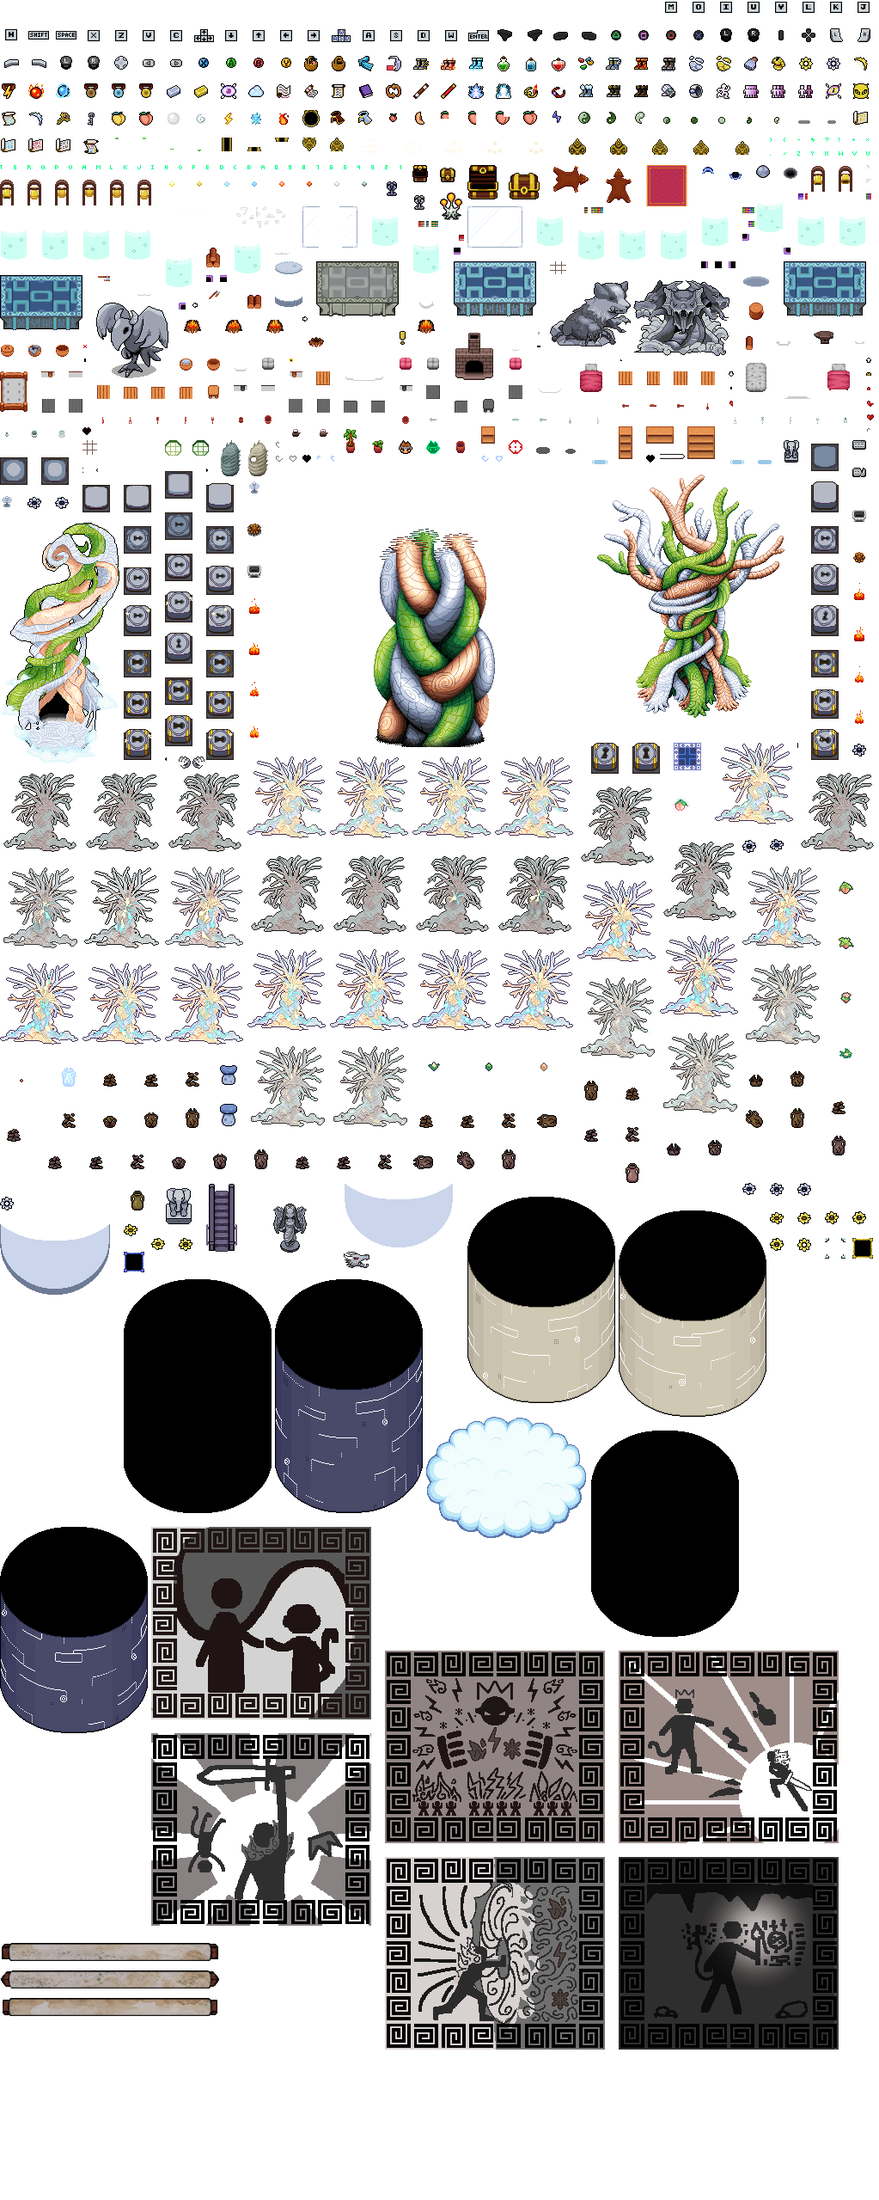
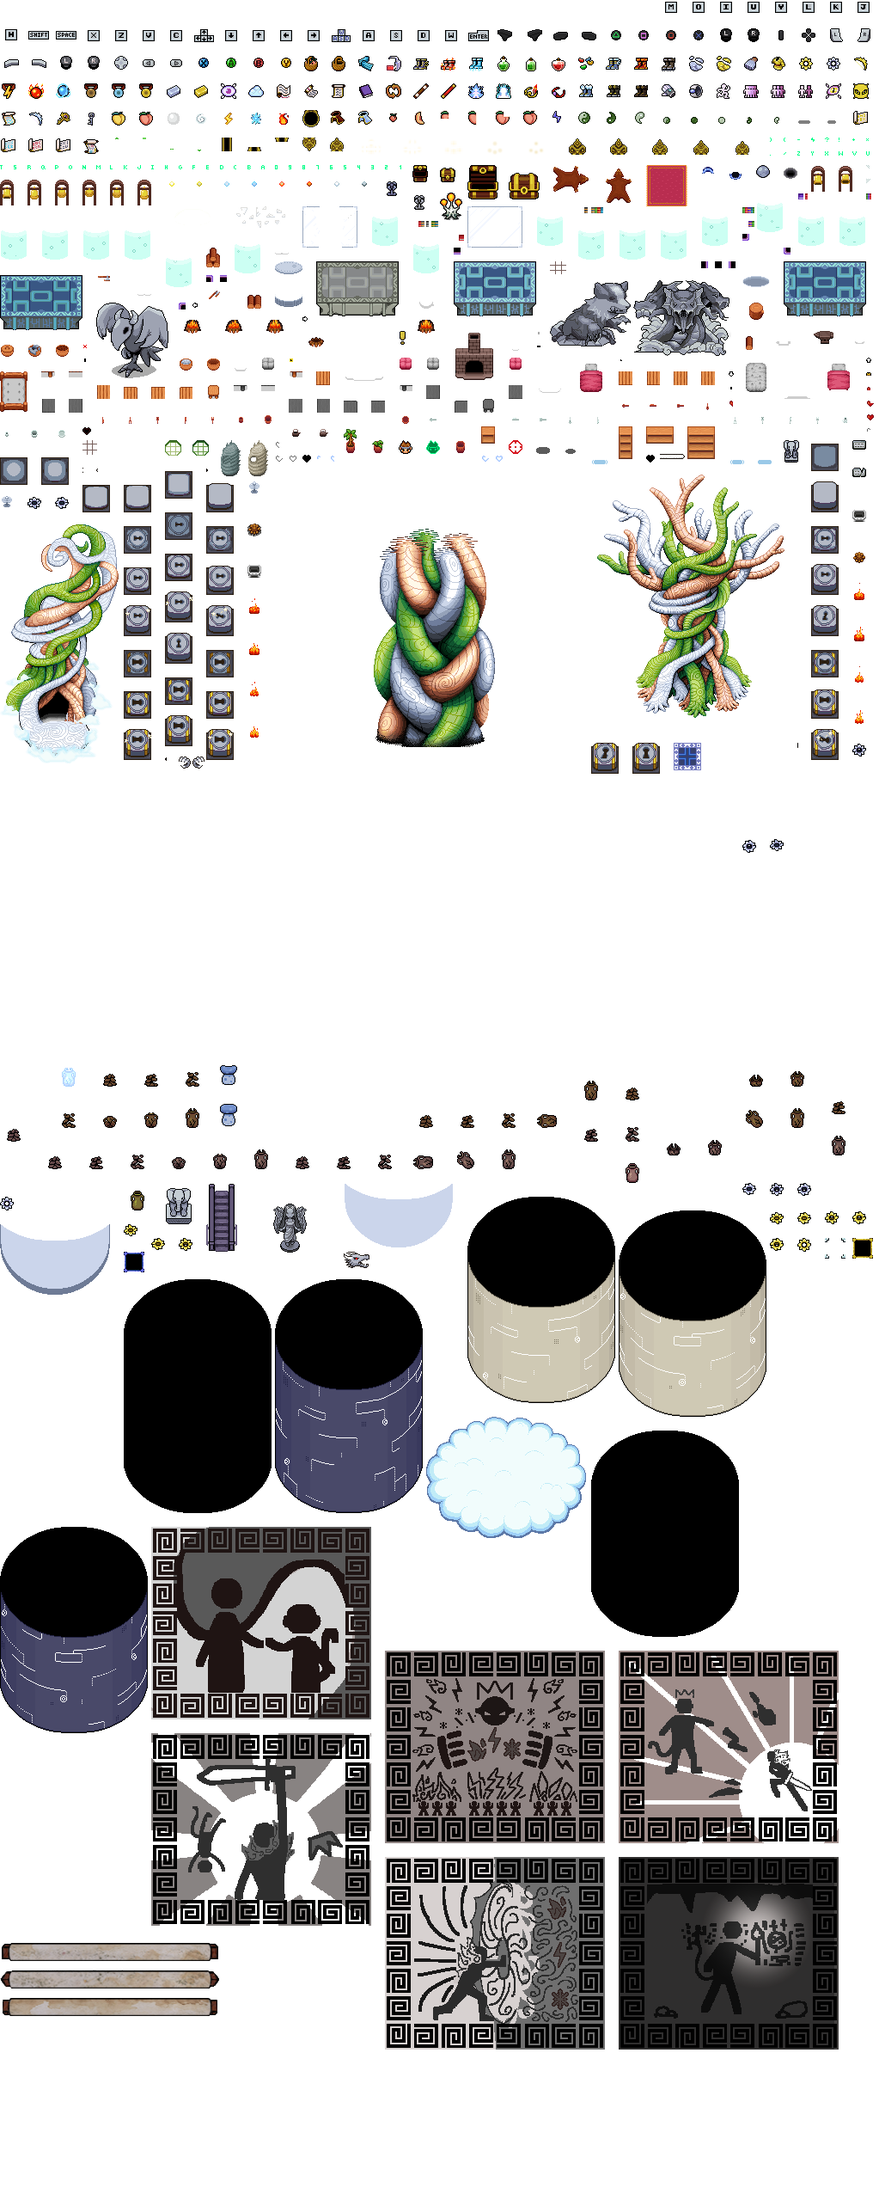
Fix various issues with the Jade tiles in the money maze game.

Changed region(s): [[0.0, 0.2161, 0.4545, 0.5248], [0.4848, 0.3396, 1.0, 0.5248]]

diff --git a/app/content/zones/holyCityInterior.ts b/app/content/zones/holyCityInterior.ts
@@ -452,7 +452,7 @@ const f0_1x1: AreaDefinition = {
                     [1930,1930,1930,1930,1930,1930,1930,1930,1930,1930,1930,1930,1930,1930,1930,1930,1930,1930,1930,2089,1930,1930,1930,1930,1930,1930,1930,1930,1930,2089,1930,1930],
                     [1930,1930,1930,1930,1930,1930,1930,1930,1930,1930,1930,1930,1930,1930,1930,1930,1930,1930,1930,1930,1930,1930,1930,1930,1930,1930,1930,1930,1930,1930,1930,1930],
                     [1930,1930,1930,1930,1930,1930,1930,1930,1930,1930,1930,1930,1930,1930,1930,1930,1930,1930,1930,1930,1930,1930,1930,1930,1930,1930,1930,1930,1930,1930,1930,1930],
-                    [1930,1930,1930,1930,1930,1930,1930,1930,1930,1930,1930,1930,1930,1930,1930,2089,2089,2089,1930,1930,1930,1930,1930,1930,1930,1930,1930,1930,1930,1930,1930,1930],
+                    [1930,1930,1930,1930,1930,1930,1930,1930,1930,1930,1930,1930,1930,1930,1930,1930,1930,1930,1930,1930,1930,1930,1930,1930,1930,1930,1930,1930,1930,1930,1930,1930],
                     [1930,1930,1930,1930,1930,1930,1930,1930,1930,1930,1930,1930,1930,1930,1930,1930,1930,1930,1930,1930,1930,1930,1930,1930,1930,1930,1930,1930,1930,1930,1930,1930],
                     [1930,1930,1930,1930,1930,1930,1930,1930,1930,1930,1930,1930,1930,1930,1930,1930,1930,1930,1930,1930,1930,1930,1930,1930,1930,1930,1930,1930,1930,1930,1930,1930],
                     [1930,1930,1930,1930,1930,1930,1930,1930,1930,1930,1930,1930,1930,1930,1930,1930,1930,1930,1930,1930,1930,1930,1930,1930,1930,1930,1930,1930,1930,1930,1930,1930],
@@ -520,49 +520,49 @@ const f0_1x1: AreaDefinition = {
                 w: 32,
                 h: 32,
                 tiles: [
-                    [2253,2242,2242,2242,2242,2242,2242,2242,2242,2242,2242,2242,2242,2242,2242,2242,2242,2242,2242,2242,2242,2242,2242,2242,2242,2242,2242,2242,2242,2242,2242,2252],
-                    [2241,0,0,0,0,0,0,0,0,0,0,0,0,0,0,0,0,0,0,0,0,0,0,0,0,0,0,0,0,0,0,2241],
-                    [2241,0,0,0,0,0,0,0,0,0,0,0,0,0,0,0,0,0,0,0,0,0,0,0,0,0,0,0,0,0,0,2241],
-                    [2241,0,0,0,0,0,0,0,0,0,0,0,0,0,0,0,0,0,0,0,0,0,0,0,0,0,0,0,0,0,0,2241],
-                    [2241,0,0,0,0,0,0,0,0,0,0,0,0,0,0,0,0,0,0,0,0,0,0,0,0,0,0,0,0,0,0,2241],
-                    [2241,0,0,0,0,0,0,0,0,0,0,0,0,0,0,0,0,0,0,0,0,0,0,0,0,0,0,0,0,0,0,2241],
-                    [2241,0,0,0,0,0,0,0,0,0,0,0,0,0,0,0,0,0,0,0,0,0,0,0,0,0,0,0,0,0,0,2241],
-                    [2241,0,0,0,0,0,0,0,0,0,0,0,0,0,0,0,0,0,0,0,0,0,0,0,0,0,0,0,0,0,0,2241],
-                    [2241,0,0,0,0,0,0,0,0,0,0,0,0,0,0,0,0,0,0,0,0,0,0,0,0,0,0,0,0,0,0,2241],
-                    [2241,0,0,0,0,0,0,0,0,0,0,0,0,0,0,0,0,0,0,0,0,0,0,0,0,0,0,0,0,0,0,2241],
-                    [2241,0,0,0,0,0,0,0,0,0,0,0,0,0,0,0,0,0,0,0,0,0,0,0,0,0,0,0,0,0,0,2241],
-                    [2241,0,0,0,0,0,0,0,0,0,0,0,0,0,0,0,0,0,0,0,0,0,0,0,0,0,0,0,0,0,0,2241],
-                    [2241,0,0,0,0,0,0,0,0,0,0,0,0,0,0,0,0,0,0,0,0,0,0,0,0,0,0,0,0,0,0,2241],
-                    [2241,0,0,0,0,0,0,0,0,0,0,0,0,0,0,0,0,0,0,0,0,0,0,0,0,0,0,0,0,0,0,2241],
-                    [2241,0,0,0,0,0,0,0,0,0,0,0,0,0,0,0,0,0,0,0,0,0,0,0,0,0,0,0,0,0,0,2241],
-                    [2247,2242,2242,2242,2242,2242,2242,2242,2242,2242,2242,2242,2242,2242,2242,2242,2242,2242,2242,2242,2242,2242,2242,2242,0,0,2242,2242,2242,2242,2242,2246],
-                    [2253,2242,2242,2242,2242,2242,2242,2242,2242,2242,2242,2242,2242,2242,2242,2252,28,2253,2242,2242,2242,2242,2242,2242,2242,2242,2242,2242,2242,2242,2242,2252],
-                    [2241,0,0,0,0,0,0,0,0,0,0,0,0,0,0,2241,28,2241,0,0,0,0,0,0,0,0,0,0,0,0,0,2241],
-                    [2241,0,0,0,0,0,0,0,0,0,0,0,0,0,0,2241,28,2241,0,0,0,0,0,0,0,0,0,0,0,0,0,2241],
-                    [2241,0,0,0,0,0,0,0,0,0,0,0,0,0,0,2241,28,2241,0,0,0,0,0,0,0,0,0,0,0,0,0,2241],
-                    [2241,0,0,0,0,0,0,0,0,0,0,0,0,0,0,2241,28,2241,0,0,0,0,0,0,0,0,0,0,0,0,0,2241],
-                    [2241,0,0,0,0,0,0,0,0,0,0,0,0,0,0,2241,28,2241,0,0,0,0,0,0,0,0,0,0,0,0,0,2241],
-                    [2241,0,0,0,0,0,0,0,0,0,0,0,0,0,0,2241,28,2241,0,0,0,0,0,0,0,0,0,0,0,0,0,2241],
-                    [2241,0,0,0,0,0,0,0,0,0,0,0,0,0,0,0,28,0,0,0,0,0,0,0,0,0,0,0,0,0,0,2241],
-                    [2241,0,0,0,0,0,0,0,0,0,0,0,0,0,0,0,28,0,0,0,0,0,0,0,0,0,0,0,0,0,0,2241],
-                    [2241,0,0,0,0,0,0,0,0,0,0,0,0,0,0,0,28,0,0,0,0,0,0,0,0,0,0,0,0,0,0,2241],
-                    [2241,0,0,0,0,0,0,0,0,0,0,0,0,0,0,2241,28,2241,0,0,0,0,0,0,0,0,0,0,0,0,0,2241],
-                    [2241,0,0,0,0,0,0,0,0,0,0,0,0,0,0,2241,28,2241,0,0,0,0,0,0,0,0,0,0,0,0,0,2241],
-                    [2241,0,0,0,0,0,0,0,0,0,0,0,0,0,0,2241,28,2241,0,0,0,0,0,0,0,0,0,0,0,0,0,2241],
-                    [2241,0,0,0,0,0,0,0,0,0,0,0,0,0,0,2241,28,2241,0,0,0,0,0,0,0,0,0,0,0,0,0,2241],
-                    [2241,0,0,0,0,0,0,0,0,0,0,0,0,0,0,2241,28,2241,0,0,0,0,0,0,0,0,0,0,0,0,0,2241],
-                    [2247,2242,2242,2242,2242,2242,2242,0,0,2242,2242,2242,2242,2242,2242,2246,28,2247,2242,2242,2242,2242,2242,2242,2242,2242,2242,2242,2242,2242,2242,2246],
+                    [2310,2299,2299,2299,2299,2299,2299,2299,2299,2299,2299,2299,2299,2299,2299,2299,2299,2299,2299,2299,2299,2299,2299,2299,2299,2299,2299,2299,2299,2299,2299,2309],
+                    [2298,0,0,0,0,0,0,0,0,0,0,0,0,0,0,0,0,0,0,0,0,0,0,0,0,0,0,0,0,0,0,2298],
+                    [2298,0,0,0,0,0,0,0,0,0,0,0,0,0,0,0,0,0,0,0,0,0,0,0,0,0,0,0,0,0,0,2298],
+                    [2298,0,0,0,0,0,0,0,0,0,0,0,0,0,0,0,0,0,0,0,0,0,0,0,0,0,0,0,0,0,0,2298],
+                    [2298,0,0,0,0,0,0,0,0,0,0,0,0,0,0,0,0,0,0,0,0,0,0,0,0,0,0,0,0,0,0,2298],
+                    [2298,0,0,0,0,0,0,0,0,0,0,0,0,0,0,0,0,0,0,0,0,0,0,0,0,0,0,0,0,0,0,2298],
+                    [2298,0,0,0,0,0,0,0,0,0,0,0,0,0,0,0,0,0,0,0,0,0,0,0,0,0,0,0,0,0,0,2298],
+                    [2298,0,0,0,0,0,0,0,0,0,0,0,0,0,0,0,0,0,0,0,0,0,0,0,0,0,0,0,0,0,0,2298],
+                    [2298,0,0,0,0,0,0,0,0,0,0,0,0,0,0,0,0,0,0,0,0,0,0,0,0,0,0,0,0,0,0,2298],
+                    [2298,0,0,0,0,0,0,0,0,0,0,0,0,0,0,0,0,0,0,0,0,0,0,0,0,0,0,0,0,0,0,2298],
+                    [2298,0,0,0,0,0,0,0,0,0,0,0,0,0,0,0,0,0,0,0,0,0,0,0,0,0,0,0,0,0,0,2298],
+                    [2298,0,0,0,0,0,0,0,0,0,0,0,0,0,0,0,0,0,0,0,0,0,0,0,0,0,0,0,0,0,0,2298],
+                    [2298,0,0,0,0,0,0,0,0,0,0,0,0,0,0,0,0,0,0,0,0,0,0,0,0,0,0,0,0,0,0,2298],
+                    [2298,0,0,0,0,0,0,0,0,0,0,0,0,0,0,0,0,0,0,0,0,0,0,0,0,0,0,0,0,0,0,2298],
+                    [2298,0,0,0,0,0,0,0,0,0,0,0,0,0,0,0,0,0,0,0,0,0,0,0,0,0,0,0,0,0,0,2298],
+                    [2304,2299,2299,2299,2299,2299,2299,2299,2299,2299,2299,2299,2299,2299,2299,2299,2299,2299,2299,2299,2299,2299,2299,2242,0,0,2242,2299,2299,2299,2299,2303],
+                    [2310,2299,2299,2299,2299,2299,2299,2299,2299,2299,2299,2299,2299,2299,2299,2309,28,2310,2299,2299,2299,2299,2299,2299,2299,2299,2299,2299,2299,2299,2299,2309],
+                    [2298,0,0,0,0,0,0,0,0,0,0,0,0,0,0,2298,28,2298,0,0,0,0,0,0,0,0,0,0,0,0,0,2298],
+                    [2298,0,0,0,0,0,0,0,0,0,0,0,0,0,0,2298,28,2298,0,0,0,0,0,0,0,0,0,0,0,0,0,2298],
+                    [2298,0,0,0,0,0,0,0,0,0,0,0,0,0,0,2298,28,2298,0,0,0,0,0,0,0,0,0,0,0,0,0,2298],
+                    [2298,0,0,0,0,0,0,0,0,0,0,0,0,0,0,2298,28,2298,0,0,0,0,0,0,0,0,0,0,0,0,0,2298],
+                    [2298,0,0,0,0,0,0,0,0,0,0,0,0,0,0,2298,28,2298,0,0,0,0,0,0,0,0,0,0,0,0,0,2298],
+                    [2298,0,0,0,0,0,0,0,0,0,0,0,0,0,0,2298,28,2298,0,0,0,0,0,0,0,0,0,0,0,0,0,2298],
+                    [2298,0,0,0,0,0,0,0,0,0,0,0,0,0,0,0,28,0,0,0,0,0,0,0,0,0,0,0,0,0,0,2298],
+                    [2298,0,0,0,0,0,0,0,0,0,0,0,0,0,0,0,28,0,0,0,0,0,0,0,0,0,0,0,0,0,0,2298],
+                    [2298,0,0,0,0,0,0,0,0,0,0,0,0,0,0,0,28,0,0,0,0,0,0,0,0,0,0,0,0,0,0,2298],
+                    [2298,0,0,0,0,0,0,0,0,0,0,0,0,0,0,2298,28,2298,0,0,0,0,0,0,0,0,0,0,0,0,0,2298],
+                    [2298,0,0,0,0,0,0,0,0,0,0,0,0,0,0,2298,28,2298,0,0,0,0,0,0,0,0,0,0,0,0,0,2298],
+                    [2298,0,0,0,0,0,0,0,0,0,0,0,0,0,0,2298,28,2298,0,0,0,0,0,0,0,0,0,0,0,0,0,2298],
+                    [2298,0,0,0,0,0,0,0,0,0,0,0,0,0,0,2298,28,2298,0,0,0,0,0,0,0,0,0,0,0,0,0,2298],
+                    [2298,0,0,0,0,0,0,0,0,0,0,0,0,0,0,2298,28,2298,0,0,0,0,0,0,0,0,0,0,0,0,0,2298],
+                    [2304,2299,2299,2299,2299,2299,2242,0,0,2242,2299,2299,2299,2299,2299,2303,28,2304,2299,2299,2299,2299,2299,2299,2299,2299,2299,2299,2299,2299,2299,2303],
                 ],
             },
         },
     ],
     objects: [
-        {status: "normal", id: "moneyMazeEntrance", x: 96, y: 496, type: "door", style: "jadeLightInterior", d: "down", targetZone: "overworld", targetObjectId: "moneyMazeEntrance", linked: true},
-        {status: "closed", id: "", x: 368, y: 240, type: "door", style: "jadeLightInterior", d: "down"},
-        {status: "closed", id: "", x: 272, y: 368, type: "door", style: "jadeLightInterior", d: "left", linked: true},
-        {status: "normal", id: "", x: 240, y: 368, type: "door", style: "jadeLightInterior", d: "right", linked: true},
-        {status: "normal", id: "moneyMazeExit", x: 432, y: 272, type: "door", style: "jadeDarkInterior", d: "up", targetZone: "overworld", targetObjectId: "moneyMazeExit", linked: true},
-        {status: "normal", id: "moneyMazeExit", x: 48, y: 16, type: "door", style: "jadeLightInteriorUpstairs", d: "up", targetZone: "overworld", targetObjectId: "moneyMazeExit"},
+        {status: "normal", id: "moneyMazeEntrance", x: 96, y: 496, type: "door", style: "jadeDarkInterior", d: "down", targetZone: "overworld", targetObjectId: "moneyMazeEntrance", linked: true},
+        {status: "closed", id: "", x: 368, y: 240, type: "door", style: "jadeDarkInterior", d: "down"},
+        {status: "closed", id: "", x: 272, y: 368, type: "door", style: "jadeDarkInterior", d: "left", linked: true},
+        {status: "normal", id: "", x: 240, y: 368, type: "door", style: "jadeDarkInterior", d: "right", linked: true},
+        {status: "normal", id: "moneyMazeExit", x: 432, y: 272, type: "door", style: "jadeDarkInteriorUpstairs", d: "up", targetZone: "overworld", targetObjectId: "moneyMazeExit", linked: true},
+        {status: "normal", id: "moneyMazeExit", x: 48, y: 16, type: "door", style: "jadeDarkInteriorUpstairs", d: "up", targetZone: "overworld", targetObjectId: "moneyMazeExit"},
         {status: "normal", id: "", x: 16, y: 280, type: "turret", style: "arrow", d: "down", fireInterval: 2000, fireOffset: 0},
         {status: "normal", id: "", x: 48, y: 280, type: "turret", style: "arrow", d: "down", fireInterval: 2000, fireOffset: 1000},
         {status: "normal", id: "", x: 64, y: 280, type: "turret", style: "arrow", d: "down", fireInterval: 2000, fireOffset: 0},
@@ -1157,31 +1157,31 @@ const sf0_1x1: AreaDefinition = {
                     [0,0,0,0,0,0,0,0,0,0,0,0,0,0,0,0,0,0,0,0,0,0,0,0,0,0,0,0,0,0,0,0],
                     [0,0,0,0,0,0,0,0,0,0,0,0,0,0,0,0,0,0,0,0,0,0,0,0,0,0,0,0,0,0,0,0],
                     [0,0,0,0,0,0,0,0,0,0,0,0,0,0,0,0,0,0,0,0,0,0,0,0,0,0,0,0,0,0,0,0],
-                    [0,0,0,0,0,0,0,0,0,0,0,0,0,0,0,0,0,0,0,0,0,0,0,2299,2299,2299,2299,0,0,0,0,0],
+                    [0,0,0,0,0,0,0,0,0,0,0,0,0,0,0,0,0,0,0,0,0,0,0,2242,2242,2242,2242,0,0,0,0,0],
                     [0,0,0,0,0,0,0,0,0,0,0,0,0,0,0,0,0,0,0,0,0,0,0,0,0,0,0,0,0,0,0,0],
                     [0,0,0,0,0,0,0,0,0,0,0,0,0,0,0,0,0,0,0,0,0,0,0,0,0,0,0,0,0,0,0,0],
                     [0,0,0,0,0,0,0,0,0,0,0,0,0,0,0,0,0,0,0,0,0,0,0,0,0,0,0,0,0,0,0,0],
                     [0,0,0,0,0,0,0,0,0,0,0,0,0,0,0,0,0,0,0,0,0,0,0,0,0,0,0,0,0,0,0,0],
                     [0,0,0,0,0,0,0,0,0,0,0,0,0,0,0,0,0,0,0,0,0,0,0,0,0,0,0,0,0,0,0,0],
-                    [0,0,0,0,0,0,0,0,0,0,0,0,0,0,0,0,0,0,0,0,2310,2299,2299,2299,2299,2299,2299,2299,2299,2299,2299,2303],
-                    [0,0,0,0,2310,2299,2299,2299,2299,2299,2309,0,0,0,0,0,0,0,0,0,2298,28,28,28,28,28,28,28,28,28,28,28],
-                    [0,0,0,0,2298,28,28,28,28,28,2298,0,0,0,0,0,0,0,0,0,2298,28,28,28,28,28,28,28,28,28,28,28],
-                    [0,0,0,0,2298,28,28,28,28,28,2298,0,0,0,0,0,0,0,0,0,2298,28,28,28,28,28,28,28,28,28,28,28],
-                    [0,0,0,0,2304,2299,2299,2299,2299,2299,2307,0,0,0,0,0,0,0,0,0,2304,2299,2299,2299,2299,2299,2299,2299,2299,2299,2299,2309],
-                    [0,0,0,0,0,0,0,0,0,0,2300,2299,2299,2299,2299,2307,0,0,0,0,0,0,0,0,0,0,0,0,0,0,0,0],
-                    [0,0,0,0,0,0,0,0,0,0,2298,28,28,28,28,0,0,0,0,0,0,0,0,0,0,0,0,0,0,0,0,0],
-                    [0,0,0,0,0,0,0,0,0,0,2298,28,28,28,28,0,0,0,0,0,0,0,0,0,0,0,0,0,0,0,0,0],
-                    [0,0,0,0,0,0,0,0,0,0,2298,28,28,28,28,0,0,0,0,0,0,0,0,0,0,0,0,0,0,0,0,0],
-                    [0,0,0,0,0,0,0,0,0,0,2298,28,28,28,28,0,0,0,0,0,0,0,0,0,0,0,0,0,0,0,0,0],
-                    [0,0,0,0,0,0,0,0,0,0,2302,0,0,0,0,0,0,0,0,0,0,0,0,0,0,0,0,0,0,0,0,0],
+                    [0,0,0,0,0,0,0,0,0,0,0,0,0,0,0,0,0,0,0,0,2253,2242,2242,2242,2242,2242,2242,2242,2242,2242,2242,2246],
+                    [0,0,0,0,2253,2242,2242,2242,2242,2242,2252,0,0,0,0,0,0,0,0,0,2241,28,28,28,28,28,28,28,28,28,28,28],
+                    [0,0,0,0,2241,28,28,28,28,28,2241,0,0,0,0,0,0,0,0,0,2241,28,28,28,28,28,28,28,28,28,28,28],
+                    [0,0,0,0,2241,28,28,28,28,28,2241,0,0,0,0,0,0,0,0,0,2241,28,28,28,28,28,28,28,28,28,28,28],
+                    [0,0,0,0,2247,2242,2242,2242,2242,2242,2250,0,0,0,0,0,0,0,0,0,2247,2242,2242,2242,2242,2242,2242,2242,2242,2242,2242,2252],
+                    [0,0,0,0,0,0,0,0,0,0,2243,2242,2242,2242,2242,2250,0,0,0,0,0,0,0,0,0,0,0,0,0,0,0,0],
+                    [0,0,0,0,0,0,0,0,0,0,2241,28,28,28,28,0,0,0,0,0,0,0,0,0,0,0,0,0,0,0,0,0],
+                    [0,0,0,0,0,0,0,0,0,0,2241,28,28,28,28,0,0,0,0,0,0,0,0,0,0,0,0,0,0,0,0,0],
+                    [0,0,0,0,0,0,0,0,0,0,2241,28,28,28,28,0,0,0,0,0,0,0,0,0,0,0,0,0,0,0,0,0],
+                    [0,0,0,0,0,0,0,0,0,0,2241,28,28,28,28,0,0,0,0,0,0,0,0,0,0,0,0,0,0,0,0,0],
+                    [0,0,0,0,0,0,0,0,0,0,2245,0,0,0,0,0,0,0,0,0,0,0,0,0,0,0,0,0,0,0,0,0],
                 ],
             },
         },
     ],
     objects: [
-        {status: "normal", id: "jadeCityWestDoor", x: 96, y: 496, type: "door", style: "jadeDarkInterior", d: "down", targetZone: "overworld", targetObjectId: "jadeCityWestDoor", linked: true, spirit: true},
-        {status: "closedSwitch", id: "jadeCityMazeDoor", x: 240, y: 368, type: "door", style: "jadeDarkInterior", d: "right", linked: true, spirit: true},
-        {status: "closed", id: "", x: 272, y: 368, type: "door", style: "jadeDarkInterior", d: "left", linked: true, spirit: true},
+        {status: "normal", id: "jadeCityWestDoor", x: 96, y: 496, type: "door", style: "jadeLightInterior", d: "down", targetZone: "overworld", targetObjectId: "jadeCityWestDoor", linked: true, spirit: true},
+        {status: "closedSwitch", id: "jadeCityMazeDoor", x: 240, y: 368, type: "door", style: "jadeLightInterior", d: "right", linked: true, spirit: true},
+        {status: "closed", id: "", x: 272, y: 368, type: "door", style: "jadeLightInterior", d: "left", linked: true, spirit: true},
         {status: "normal", id: "jadeCityMazeExit", x: 432, y: 272, type: "door", style: "jadeLightInteriorUpstairs", d: "up", targetZone: "overworld", targetObjectId: "jadeCityMazeExit", linked: true, spirit: true},
         {status: "normal", id: "jadeCityMazeSmallMoney", x: 32, y: 304, type: "chest", lootType: "money", lootAmount: 20},
         {status: "normal", id: "jadeCityMazeBigMoney", x: 464, y: 448, type: "chest", lootType: "money", lootAmount: 100},

diff --git a/app/utils/packedImages.ts b/app/utils/packedImages.ts
@@ -473,48 +473,6 @@ const imagePacks: PackedImageData[] = [
         {x:688,y:864,w:32,h:36,originalSource:'gfx/objects/locked_tile.png',frameStrings:['32,0,32,36']},
         {x:736,y:864,w:32,h:36,originalSource:'gfx/objects/locked_tile.png',frameStrings:['0,0,32,36']},
         {x:784,y:864,w:32,h:32,originalSource:'gfx/objects/platform.png',frameStrings:['0,0,32,32']},
-        {x:832,y:864,w:92,h:96,originalSource:'gfx/objects/peachTree.png',frameStrings:['368,0,92,96']},
-        {x:288,y:880,w:92,h:96,originalSource:'gfx/objects/peachTree.png',frameStrings:['276,0,92,96']},
-        {x:384,y:880,w:92,h:96,originalSource:'gfx/objects/peachTree.png',frameStrings:['184,0,92,96']},
-        {x:480,y:880,w:92,h:96,originalSource:'gfx/objects/peachTree.png',frameStrings:['92,0,92,96']},
-        {x:576,y:880,w:92,h:96,originalSource:'gfx/objects/peachTree.png',frameStrings:['0,0,92,96']},
-        {x:0,y:896,w:92,h:96,originalSource:'gfx/objects/peachTreeDeath.png',frameStrings:['2024,0,92,96']},
-        {x:96,y:896,w:92,h:96,originalSource:'gfx/objects/peachTreeDeath.png',frameStrings:['1932,0,92,96']},
-        {x:192,y:896,w:92,h:96,originalSource:'gfx/objects/peachTreeDeath.png',frameStrings:['1840,0,92,96']},
-        {x:928,y:896,w:92,h:96,originalSource:'gfx/objects/peachTreeDeath.png',frameStrings:['1748,0,92,96']},
-        {x:672,y:912,w:92,h:96,originalSource:'gfx/objects/peachTreeDeath.png',frameStrings:['1656,0,92,96']},
-        {x:768,y:976,w:92,h:96,originalSource:'gfx/objects/peachTreeDeath.png',frameStrings:['1564,0,92,96']},
-        {x:288,y:992,w:92,h:96,originalSource:'gfx/objects/peachTreeDeath.png',frameStrings:['1472,0,92,96']},
-        {x:384,y:992,w:92,h:96,originalSource:'gfx/objects/peachTreeDeath.png',frameStrings:['1380,0,92,96']},
-        {x:480,y:992,w:92,h:96,originalSource:'gfx/objects/peachTreeDeath.png',frameStrings:['1288,0,92,96']},
-        {x:576,y:992,w:92,h:96,originalSource:'gfx/objects/peachTreeDeath.png',frameStrings:['1196,0,92,96']},
-        {x:0,y:1008,w:92,h:96,originalSource:'gfx/objects/peachTreeDeath.png',frameStrings:['1104,0,92,96']},
-        {x:96,y:1008,w:92,h:96,originalSource:'gfx/objects/peachTreeDeath.png',frameStrings:['1012,0,92,96']},
-        {x:192,y:1008,w:92,h:96,originalSource:'gfx/objects/peachTreeDeath.png',frameStrings:['920,0,92,96']},
-        {x:864,y:1008,w:92,h:96,originalSource:'gfx/objects/peachTreeDeath.png',frameStrings:['828,0,92,96']},
-        {x:672,y:1024,w:92,h:96,originalSource:'gfx/objects/peachTreeDeath.png',frameStrings:['736,0,92,96']},
-        {x:768,y:1088,w:92,h:96,originalSource:'gfx/objects/peachTreeDeath.png',frameStrings:['644,0,92,96']},
-        {x:288,y:1104,w:92,h:96,originalSource:'gfx/objects/peachTreeDeath.png',frameStrings:['552,0,92,96']},
-        {x:384,y:1104,w:92,h:96,originalSource:'gfx/objects/peachTreeDeath.png',frameStrings:['460,0,92,96']},
-        {x:480,y:1104,w:92,h:96,originalSource:'gfx/objects/peachTreeDeath.png',frameStrings:['368,0,92,96']},
-        {x:576,y:1104,w:92,h:96,originalSource:'gfx/objects/peachTreeDeath.png',frameStrings:['276,0,92,96']},
-        {x:0,y:1120,w:92,h:96,originalSource:'gfx/objects/peachTreeDeath.png',frameStrings:['184,0,92,96']},
-        {x:96,y:1120,w:92,h:96,originalSource:'gfx/objects/peachTreeDeath.png',frameStrings:['92,0,92,96']},
-        {x:192,y:1120,w:92,h:96,originalSource:'gfx/objects/peachTreeDeath.png',frameStrings:['0,0,92,96']},
-        {x:864,y:1120,w:92,h:96,originalSource:'gfx/objects/peachTreeWeak.png',frameStrings:['368,0,92,96']},
-        {x:672,y:1136,w:92,h:96,originalSource:'gfx/objects/peachTreeWeak.png',frameStrings:['276,0,92,96']},
-        {x:768,y:1200,w:92,h:96,originalSource:'gfx/objects/peachTreeWeak.png',frameStrings:['184,0,92,96']},
-        {x:288,y:1216,w:92,h:96,originalSource:'gfx/objects/peachTreeWeak.png',frameStrings:['92,0,92,96']},
-        {x:384,y:1216,w:92,h:96,originalSource:'gfx/objects/peachTreeWeak.png',frameStrings:['0,0,92,96']},
-        /*{x:768,y:912,w:50,h:50,originalSource:'gfx/objects/peachAnimation.png',frameStrings:['400,0,50,50']},
-        {x:960,y:1008,w:50,h:50,originalSource:'gfx/objects/peachAnimation.png',frameStrings:['350,0,50,50']},
-        {x:960,y:1072,w:50,h:50,originalSource:'gfx/objects/peachAnimation.png',frameStrings:['300,0,50,50']},
-        {x:960,y:1136,w:50,h:50,originalSource:'gfx/objects/peachAnimation.png',frameStrings:['250,0,50,50']},
-        {x:960,y:1200,w:50,h:50,originalSource:'gfx/objects/peachAnimation.png',frameStrings:['200,0,50,50']},
-        {x:480,y:1216,w:50,h:50,originalSource:'gfx/objects/peachAnimation.png',frameStrings:['150,0,50,50']},
-        {x:544,y:1216,w:50,h:50,originalSource:'gfx/objects/peachAnimation.png',frameStrings:['100,0,50,50']},
-        {x:608,y:1216,w:50,h:50,originalSource:'gfx/objects/peachAnimation.png',frameStrings:['50,0,50,50']},
-        {x:0,y:1232,w:50,h:50,originalSource:'gfx/objects/peachAnimation.png',frameStrings:['0,0,50,50']},*/
         {x:64,y:1232,w:32,h:32,originalSource:'gfx/objects/Pots.png',frameStrings:['8,256,32,32']},
         {x:112,y:1232,w:32,h:32,originalSource:'gfx/objects/Pots.png',frameStrings:['168,160,32,32']},
         {x:160,y:1232,w:32,h:32,originalSource:'gfx/objects/Pots.png',frameStrings:['136,160,32,32']},

diff --git a/app/content/objects/doorStyles.ts b/app/content/objects/doorStyles.ts
@@ -875,7 +875,7 @@ const jadeLight1DoorStyle: DoorStyleDefinition = {
     render: (context, state, door) => renderV1DoorBackground(context, state, door, jadeLight1DoorFrames),
     renderCover: (context, state, door) => renderV1DoorCover(context, state, door, jadeLight1DoorFrames),
     renderAfterHero: (context, state, door) => renderV1DoorAfterHero(context, state, door, jadeLight1DoorFrames),
-    renderForeground: (context, state, door) => renderV1DoorForeground(context, state, door, jadeLight1DoorFrames),
+    renderForeground: (context, state, door) => renderV1DoorForeground(context, state, door, jadeLight1DoorFrames, 8),
 };
 
 /*
@@ -942,7 +942,7 @@ const jadeDark1DoorStyle: DoorStyleDefinition = {
     render: (context, state, door) => renderV1DoorBackground(context, state, door, jadeDark1DoorFrames),
     renderCover: (context, state, door) => renderV1DoorCover(context, state, door, jadeDark1DoorFrames),
     renderAfterHero: (context, state, door) => renderV1DoorAfterHero(context, state, door, jadeDark1DoorFrames),
-    renderForeground: (context, state, door) => renderV1DoorForeground(context, state, door, jadeDark1DoorFrames),
+    renderForeground: (context, state, door) => renderV1DoorForeground(context, state, door, jadeDark1DoorFrames, 8),
 };
 
 
